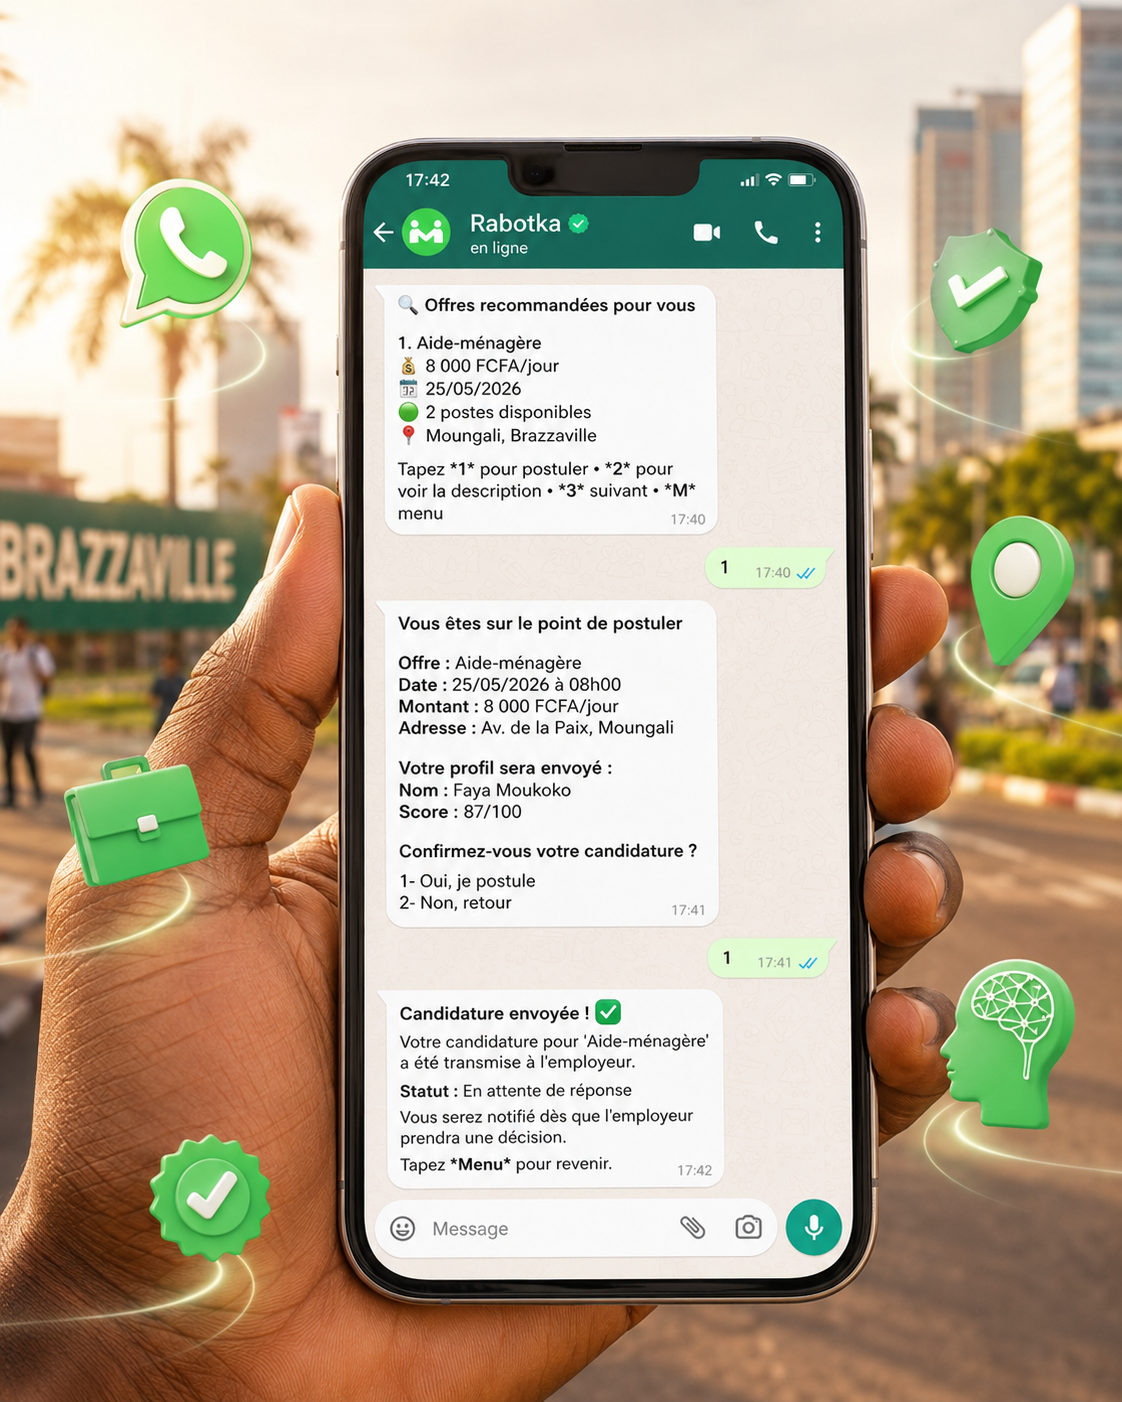
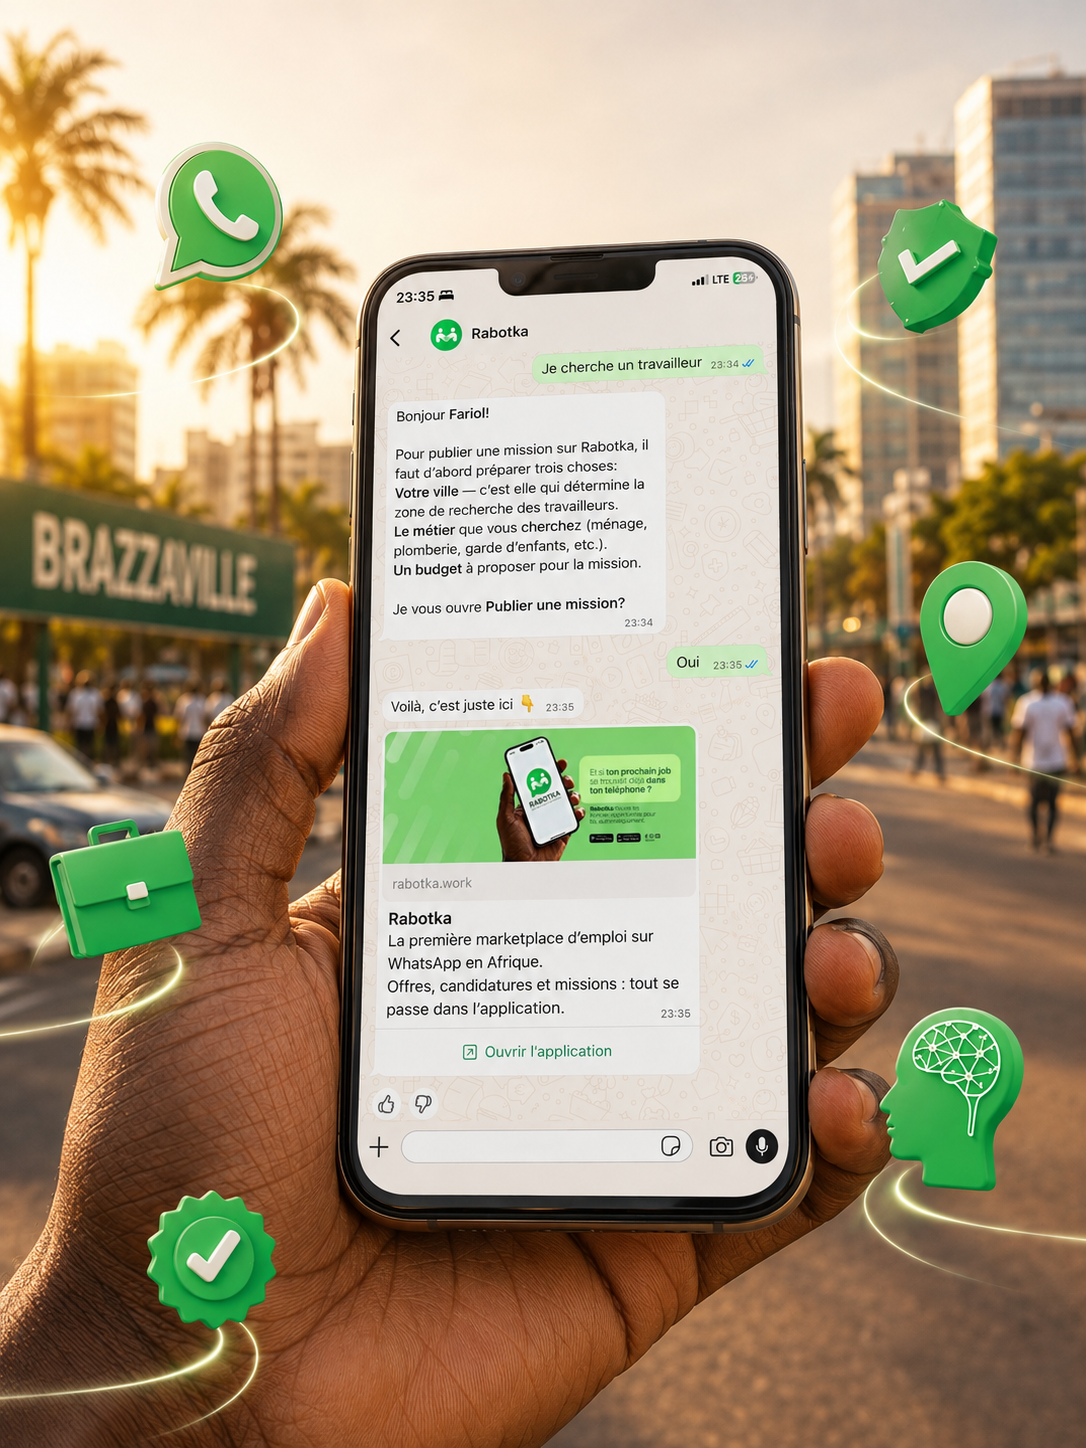
feat(landing): nouveau visuel téléphone et correction du balisage vision
Remplace le visuel de la section WhatsApp par whatsapp-phone-new.png et
supprime les deux assets devenus orphelins (whatsapp-phone.png,
woman-holding-phone.png), qui pesaient 6,5 Mo à eux deux.

Corrige aussi la section vision, qui ne compilait pas : les balises
fermantes de `<div className="space-y-6">` et du `<motion.div>` parent
étaient inversées. Retire l'import `Link` inutilisé et déplace la flèche
à l'intérieur du `<a>`, pour que toute la ligne du CTA soit cliquable et
non le seul libellé.

diff --git a/src/features/landing/components/vision-section.tsx b/src/features/landing/components/vision-section.tsx
@@ -1,9 +1,9 @@
 import { motion, useInView } from "framer-motion";
 import { useRef } from "react";
-import { Link } from "react-router";
 import { MapPin, ArrowRight } from "lucide-react";
 import citySunsetImage from "@/assets/city-sunset.png?format=webp";
 import { visionContent } from "@/content/landing/vision";
+import { config } from "@/config";
 
 export function VisionSection() {
   const ref = useRef(null);
@@ -50,12 +50,17 @@ export function VisionSection() {
               initial={{ opacity: 0, y: 20 }}
               animate={isInView ? { opacity: 1, y: 0 } : {}}
               transition={{ delay: 0.3 }}
-              className="flex items-center gap-2 text-whatsapp font-medium pt-4 group"
+              className="pt-4"
             >
-              <Link to="/onboarding" className="group-hover:underline">
+              <a
+                href={config.whatsapp.links.start}
+                target="_blank"
+                rel="noopener noreferrer"
+                className="group inline-flex items-center gap-2 text-whatsapp font-medium hover:underline"
+              >
                 {visionContent.cta}
-              </Link>
-              <ArrowRight className="w-5 h-5 transition-transform group-hover:translate-x-1" />
+                <ArrowRight className="w-5 h-5 transition-transform group-hover:translate-x-1" />
+              </a>
             </motion.div>
           </div>
         </motion.div>

diff --git a/src/content/landing/hero.ts b/src/content/landing/hero.ts
@@ -38,7 +38,7 @@ export const heroContent: HeroContent = {
   // browsing happens in the application. Copy that promises more than the
   // product delivers is the first thing a new user discovers is untrue.
   floatingCard: {
-    title: "VoVa AI",
+    title: "Rabotka",
     subtitle:
       "Bonjour ! Je suis VoVa AI, l'assistant de Rabotka. Vous cherchez une mission, ou quelqu'un pour en réaliser une ?",
     icon: MessageCircle,

diff --git a/src/features/landing/components/why-whatsapp-section.tsx b/src/features/landing/components/why-whatsapp-section.tsx
@@ -1,6 +1,6 @@
 import { motion, useInView } from "framer-motion";
 import { useRef } from "react";
-import whatsappPhoneImage from "@/assets/woman-holding-phone.png?format=webp";
+import whatsappPhoneImage from "@/assets/whatsapp-phone-new.png?format=webp";
 import { whyWhatsAppContent } from "@/content/landing/why-whatsapp";
 
 export function WhyWhatsAppSection() {
